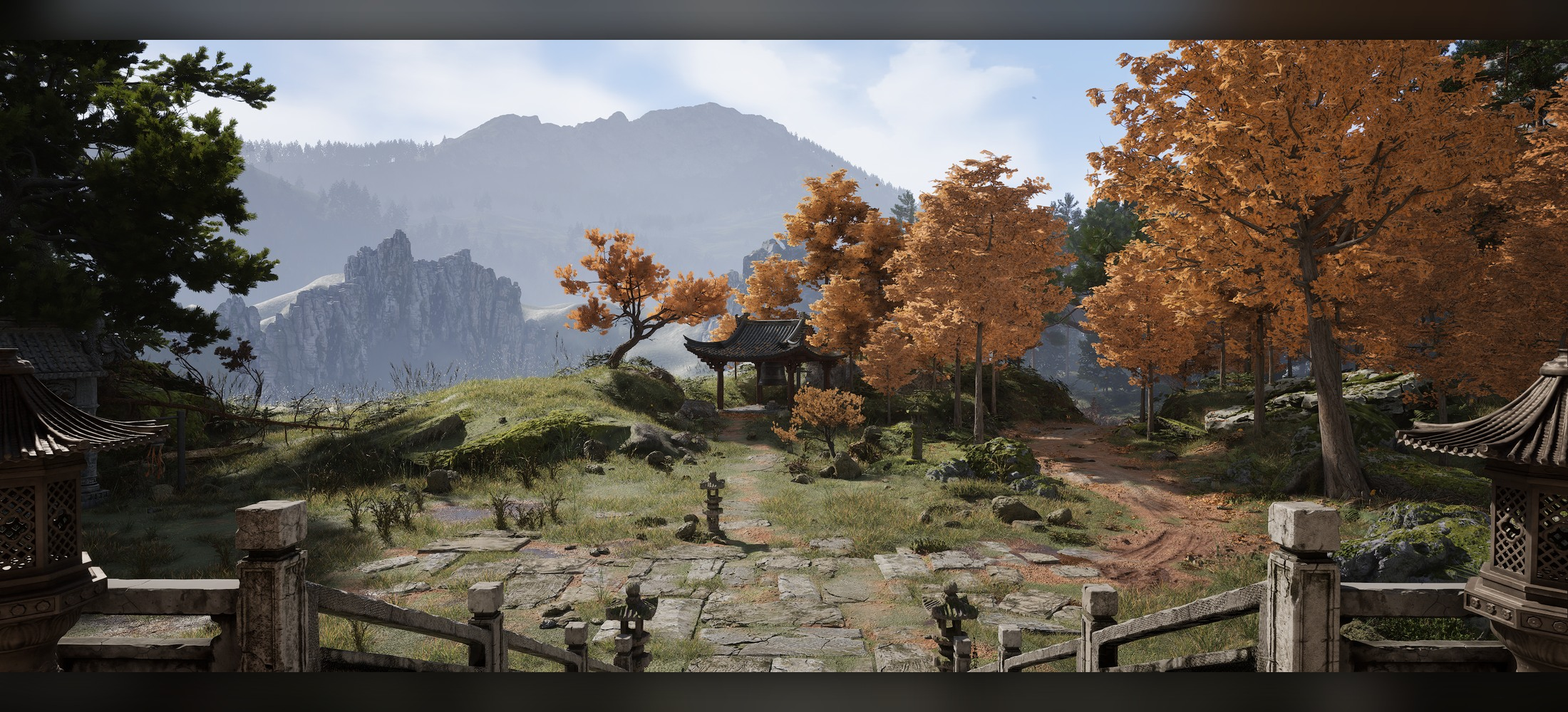
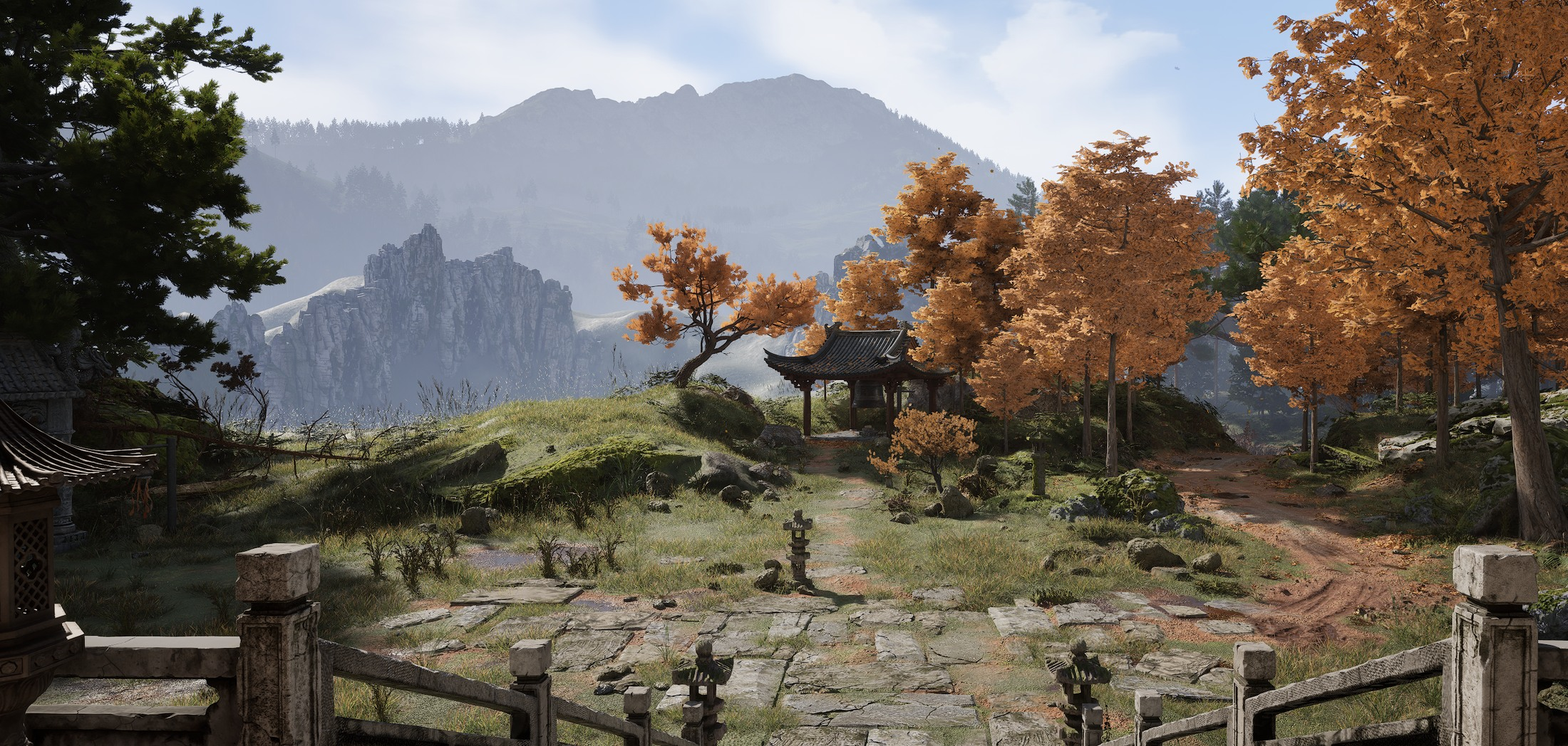
场景页：00034 换 00035；封面外四张裁成 2.1:1 等大（按构图定向裁，最多少 15%），2x2 对齐

diff --git a/resume/index.html b/resume/index.html
@@ -1263,7 +1263,7 @@ html[data-style="L"] .sidebar .s-block{ margin-bottom:20px !important; }
 
 /* 2×2 拼图格子 */
 .grid4eq{ display:grid; grid-template-columns:1fr 1fr; gap:2.5mm; margin:2.5mm 0 0; }
-.grid4eq img{ width:100%; height:auto; display:block; }
+.grid4eq img{ width:100%; height:auto; aspect-ratio:2.1; object-fit:cover; display:block; }
 .grid3{ display:grid; grid-template-columns:repeat(3,1fr); gap:2.5mm; margin:2.5mm 0 0; align-items:center; }
 .grid3 img{ width:100%; height:auto; display:block; }
 .grid2x2{ display:grid; grid-template-columns:1fr 1fr; gap:2.5mm; margin:2.5mm 0 0; }
@@ -1291,9 +1291,8 @@ html[data-style="L"] .sidebar .s-block{ margin-bottom:20px !important; }
 .works-lite{ display:none; }
 html[data-style="L"]:not([data-works="off"]) .works-lite{ display:block; margin-top:10mm; }  /* 简历与作品区之间的间隔 */
 
-
-body{padding:0 !important; background:#fff !important; display:block !important;}
-.page{box-shadow:none !important; margin:0 auto !important;}
+body{padding:0 !important;background:#fff !important;display:block !important;}
+.page{box-shadow:none !important;margin:0 auto !important;}
 .page::after{display:none !important;}
 .toolbar,.add-btn,.del-btn,.drag-handle,.blk-tools,#warn,#saved,#buildtag,#tip,#toast,.tipbar{display:none !important;}
 </style>
@@ -1560,9 +1559,9 @@ body{padding:0 !important; background:#fff !important; display:block !important;
   </div>
   <div class="wpage breakpage">
     <div class="ph"><div class="ph-row"><span class="ph-n">06</span><span class="ph-t">场景 / Environments</span><span class="ph-m">山寺场景 · 5 个机位 · 实机</span></div>
-      <div class="ph-resp">同一座山寺场景的五个机位：秋林全景建立、殿前土路纵深、室内烛光、石栏小亭与正殿逆光，覆盖户外天光到室内暗部的完整气氛。</div></div>
+      <div class="ph-resp">同一座山寺场景的五个机位：秋林全景建立、殿前土路纵深、室内烛光、石栏小亭与正殿正面，覆盖户外天光到室内暗部的完整气氛。</div></div>
     <div class="band" style="margin-top:0"><img src="../assets/env_1.jpg" alt="山寺场景 · 秋林全景"></div>
-    <div class="grid4eq"><img src="../assets/env_2.jpg" alt="山寺场景 · 殿前土路"><img src="../assets/env_3.jpg" alt="山寺场景 · 室内烛光"><img src="../assets/env_4.jpg" alt="山寺场景 · 石栏小亭"><img src="../assets/env_5.jpg" alt="山寺场景 · 正殿逆光"></div>
+    <div class="grid4eq"><img src="../assets/env_2.jpg" alt="山寺场景 · 殿前土路"><img src="../assets/env_3.jpg" alt="山寺场景 · 室内烛光"><img src="../assets/env_4.jpg" alt="山寺场景 · 石栏小亭"><img src="../assets/env_5.jpg" alt="山寺场景 · 正殿正面"></div>
   </div>
 </div>
 

diff --git a/index.html b/index.html
@@ -277,7 +277,7 @@ footer::before{content:'';position:absolute;left:0;top:0;width:100%;height:3px;b
       <figure class="shot"><img src="assets/env_2.jpg" data-gallery="g4" data-i="12" loading="lazy" alt="山寺场景 · 殿前土路"></figure>
       <figure class="shot"><img src="assets/env_3.jpg" data-gallery="g4" data-i="13" loading="lazy" alt="山寺场景 · 室内烛光"></figure>
       <figure class="shot"><img src="assets/env_4.jpg" data-gallery="g4" data-i="14" loading="lazy" alt="山寺场景 · 石栏小亭"></figure>
-      <figure class="shot"><img src="assets/env_5.jpg" data-gallery="g4" data-i="15" loading="lazy" alt="山寺场景 · 正殿逆光"></figure>
+      <figure class="shot"><img src="assets/env_5.jpg" data-gallery="g4" data-i="15" loading="lazy" alt="山寺场景 · 正殿正面"></figure>
     </div>
   </article>
 
